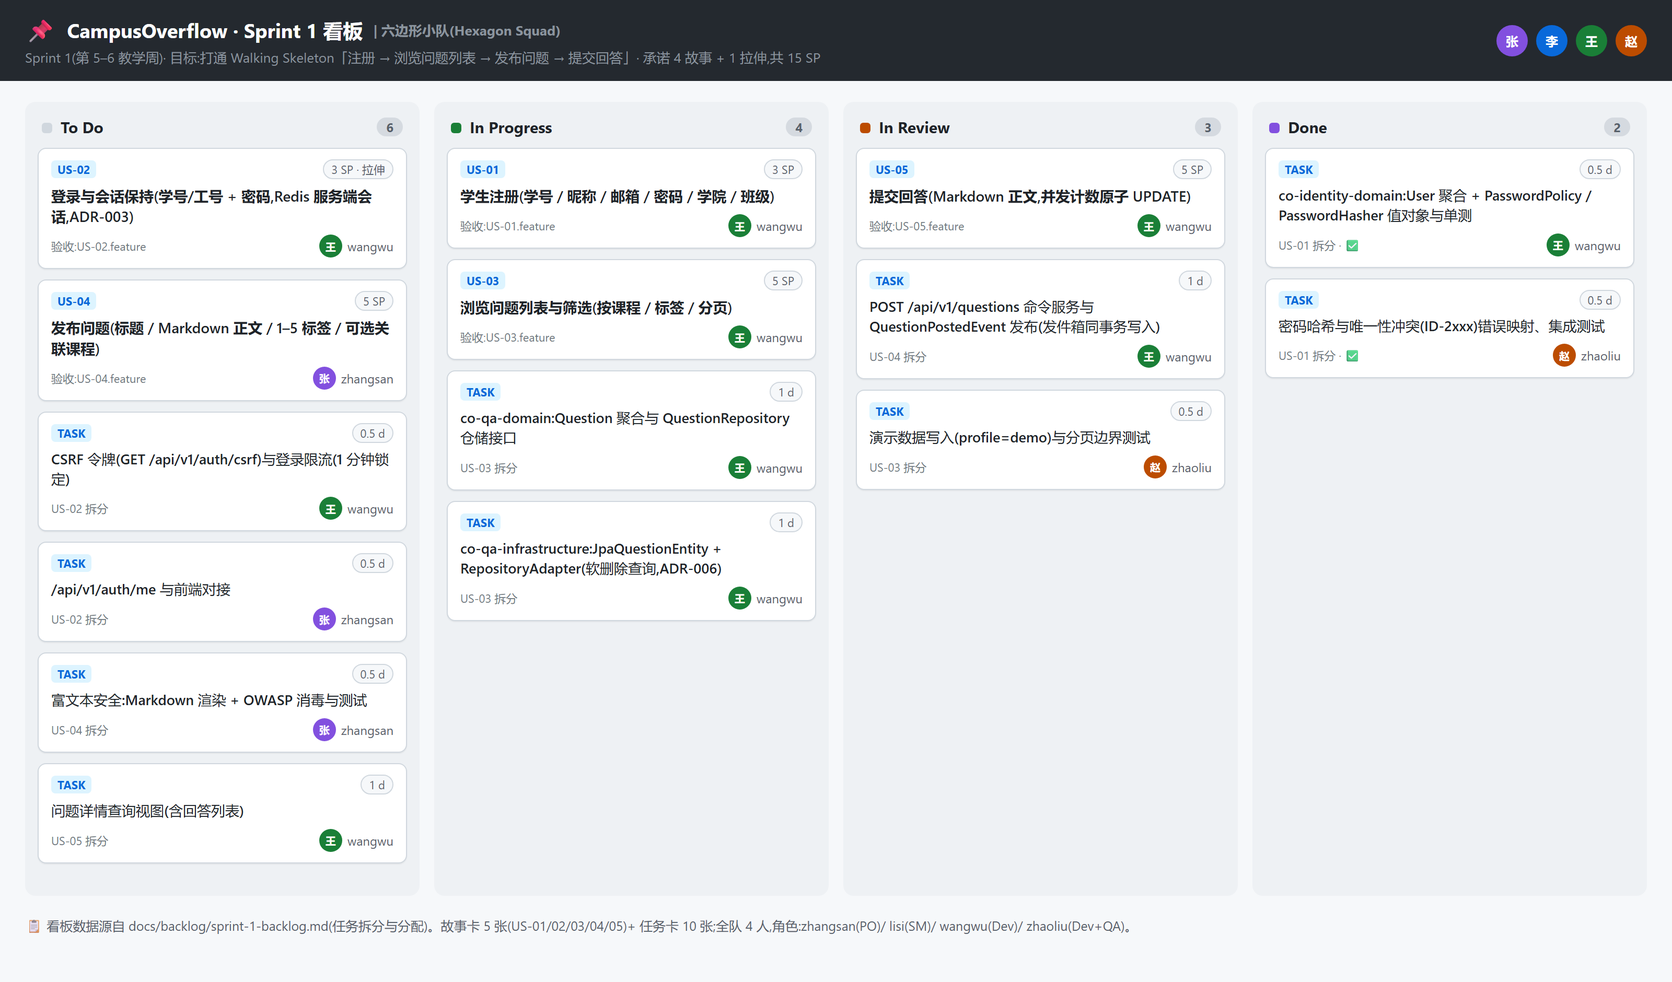
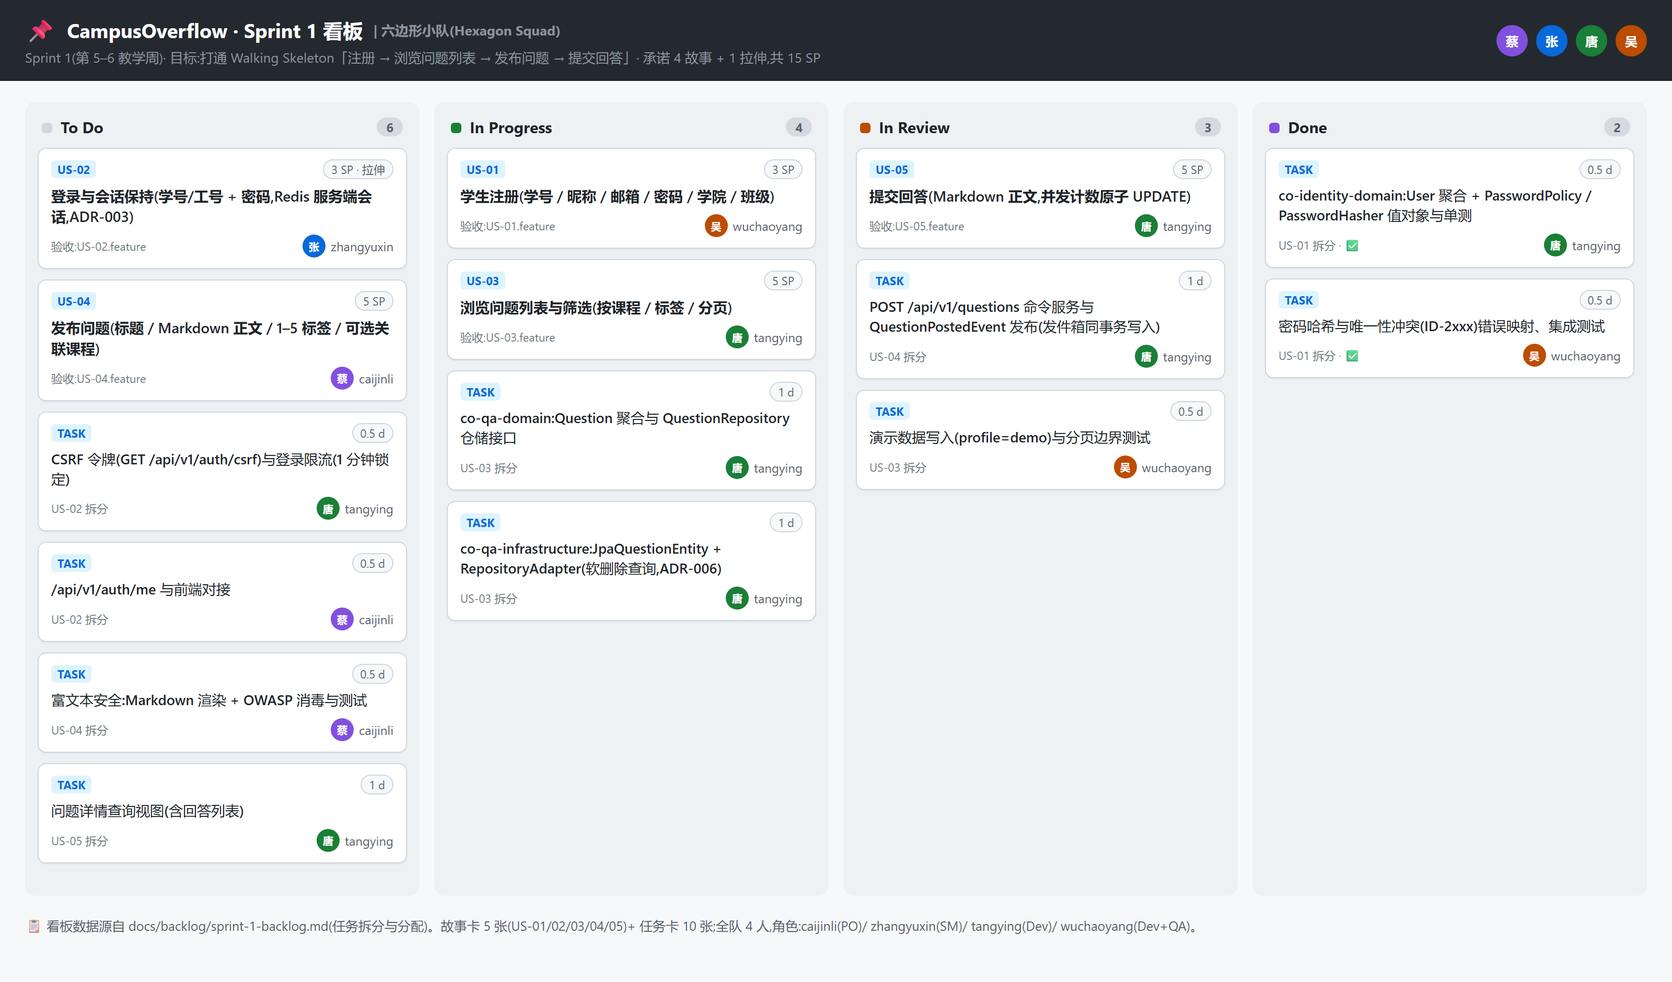
docs(team): 统一真实成员姓名与 GitHub 账号,重渲看板与故事地图

diff --git a/campus-overflow-student/docs/submissions/src/kanban-board.html b/campus-overflow-student/docs/submissions/src/kanban-board.html
@@ -41,10 +41,10 @@
       <div class="sub" style="margin-top:3px">Sprint 1(第 5–6 教学周)· 目标:打通 Walking Skeleton「注册 → 浏览问题列表 → 发布问题 → 提交回答」· 承诺 4 故事 + 1 拉伸,共 15 SP</div>
     </div>
     <div class="right">
-      <span class="avatar" style="background:#8250df">张</span>
-      <span class="avatar" style="background:#0969da">李</span>
-      <span class="avatar" style="background:#1a7f37">王</span>
-      <span class="avatar" style="background:#bc4c00">赵</span>
+      <span class="avatar" style="background:#8250df">蔡</span>
+      <span class="avatar" style="background:#0969da">张</span>
+      <span class="avatar" style="background:#1a7f37">唐</span>
+      <span class="avatar" style="background:#bc4c00">吴</span>
     </div>
   </div>
 
@@ -55,32 +55,32 @@
       <div class="card">
         <div class="top"><span class="id">US-02</span><span class="sp">3 SP · 拉伸</span></div>
         <div class="title">登录与会话保持(学号/工号 + 密码,Redis 服务端会话,ADR-003)</div>
-        <div class="bottom"><span class="est">验收:US-02.feature</span><span class="assignee"><span class="avatar sm" style="background:#1a7f37">王</span>wangwu</span></div>
+        <div class="bottom"><span class="est">验收:US-02.feature</span><span class="assignee"><span class="avatar sm" style="background:#0969da">张</span>zhangyuxin</span></div>
       </div>
       <div class="card">
         <div class="top"><span class="id">US-04</span><span class="sp">5 SP</span></div>
         <div class="title">发布问题(标题 / Markdown 正文 / 1–5 标签 / 可选关联课程)</div>
-        <div class="bottom"><span class="est">验收:US-04.feature</span><span class="assignee"><span class="avatar sm" style="background:#8250df">张</span>zhangsan</span></div>
+        <div class="bottom"><span class="est">验收:US-04.feature</span><span class="assignee"><span class="avatar sm" style="background:#8250df">蔡</span>caijinli</span></div>
       </div>
       <div class="card task">
         <div class="top"><span class="id">TASK</span><span class="sp">0.5 d</span></div>
         <div class="title">CSRF 令牌(GET /api/v1/auth/csrf)与登录限流(1 分钟锁定)</div>
-        <div class="bottom"><span class="est">US-02 拆分</span><span class="assignee"><span class="avatar sm" style="background:#1a7f37">王</span>wangwu</span></div>
+        <div class="bottom"><span class="est">US-02 拆分</span><span class="assignee"><span class="avatar sm" style="background:#1a7f37">唐</span>tangying</span></div>
       </div>
       <div class="card task">
         <div class="top"><span class="id">TASK</span><span class="sp">0.5 d</span></div>
         <div class="title">/api/v1/auth/me 与前端对接</div>
-        <div class="bottom"><span class="est">US-02 拆分</span><span class="assignee"><span class="avatar sm" style="background:#8250df">张</span>zhangsan</span></div>
+        <div class="bottom"><span class="est">US-02 拆分</span><span class="assignee"><span class="avatar sm" style="background:#8250df">蔡</span>caijinli</span></div>
       </div>
       <div class="card task">
         <div class="top"><span class="id">TASK</span><span class="sp">0.5 d</span></div>
         <div class="title">富文本安全:Markdown 渲染 + OWASP 消毒与测试</div>
-        <div class="bottom"><span class="est">US-04 拆分</span><span class="assignee"><span class="avatar sm" style="background:#8250df">张</span>zhangsan</span></div>
+        <div class="bottom"><span class="est">US-04 拆分</span><span class="assignee"><span class="avatar sm" style="background:#8250df">蔡</span>caijinli</span></div>
       </div>
       <div class="card task">
         <div class="top"><span class="id">TASK</span><span class="sp">1 d</span></div>
         <div class="title">问题详情查询视图(含回答列表)</div>
-        <div class="bottom"><span class="est">US-05 拆分</span><span class="assignee"><span class="avatar sm" style="background:#1a7f37">王</span>wangwu</span></div>
+        <div class="bottom"><span class="est">US-05 拆分</span><span class="assignee"><span class="avatar sm" style="background:#1a7f37">唐</span>tangying</span></div>
       </div>
     </div>
 
@@ -90,22 +90,22 @@
       <div class="card">
         <div class="top"><span class="id">US-01</span><span class="sp">3 SP</span></div>
         <div class="title">学生注册(学号 / 昵称 / 邮箱 / 密码 / 学院 / 班级)</div>
-        <div class="bottom"><span class="est">验收:US-01.feature</span><span class="assignee"><span class="avatar sm" style="background:#1a7f37">王</span>wangwu</span></div>
+        <div class="bottom"><span class="est">验收:US-01.feature</span><span class="assignee"><span class="avatar sm" style="background:#bc4c00">吴</span>wuchaoyang</span></div>
       </div>
       <div class="card">
         <div class="top"><span class="id">US-03</span><span class="sp">5 SP</span></div>
         <div class="title">浏览问题列表与筛选(按课程 / 标签 / 分页)</div>
-        <div class="bottom"><span class="est">验收:US-03.feature</span><span class="assignee"><span class="avatar sm" style="background:#1a7f37">王</span>wangwu</span></div>
+        <div class="bottom"><span class="est">验收:US-03.feature</span><span class="assignee"><span class="avatar sm" style="background:#1a7f37">唐</span>tangying</span></div>
       </div>
       <div class="card task">
         <div class="top"><span class="id">TASK</span><span class="sp">1 d</span></div>
         <div class="title">co-qa-domain:Question 聚合与 QuestionRepository 仓储接口</div>
-        <div class="bottom"><span class="est">US-03 拆分</span><span class="assignee"><span class="avatar sm" style="background:#1a7f37">王</span>wangwu</span></div>
+        <div class="bottom"><span class="est">US-03 拆分</span><span class="assignee"><span class="avatar sm" style="background:#1a7f37">唐</span>tangying</span></div>
       </div>
       <div class="card task">
         <div class="top"><span class="id">TASK</span><span class="sp">1 d</span></div>
         <div class="title">co-qa-infrastructure:JpaQuestionEntity + RepositoryAdapter(软删除查询,ADR-006)</div>
-        <div class="bottom"><span class="est">US-03 拆分</span><span class="assignee"><span class="avatar sm" style="background:#1a7f37">王</span>wangwu</span></div>
+        <div class="bottom"><span class="est">US-03 拆分</span><span class="assignee"><span class="avatar sm" style="background:#1a7f37">唐</span>tangying</span></div>
       </div>
     </div>
 
@@ -115,17 +115,17 @@
       <div class="card">
         <div class="top"><span class="id">US-05</span><span class="sp">5 SP</span></div>
         <div class="title">提交回答(Markdown 正文,并发计数原子 UPDATE)</div>
-        <div class="bottom"><span class="est">验收:US-05.feature</span><span class="assignee"><span class="avatar sm" style="background:#1a7f37">王</span>wangwu</span></div>
+        <div class="bottom"><span class="est">验收:US-05.feature</span><span class="assignee"><span class="avatar sm" style="background:#1a7f37">唐</span>tangying</span></div>
       </div>
       <div class="card task">
         <div class="top"><span class="id">TASK</span><span class="sp">1 d</span></div>
         <div class="title">POST /api/v1/questions 命令服务与 QuestionPostedEvent 发布(发件箱同事务写入)</div>
-        <div class="bottom"><span class="est">US-04 拆分</span><span class="assignee"><span class="avatar sm" style="background:#1a7f37">王</span>wangwu</span></div>
+        <div class="bottom"><span class="est">US-04 拆分</span><span class="assignee"><span class="avatar sm" style="background:#1a7f37">唐</span>tangying</span></div>
       </div>
       <div class="card task">
         <div class="top"><span class="id">TASK</span><span class="sp">0.5 d</span></div>
         <div class="title">演示数据写入(profile=demo)与分页边界测试</div>
-        <div class="bottom"><span class="est">US-03 拆分</span><span class="assignee"><span class="avatar sm" style="background:#bc4c00">赵</span>zhaoliu</span></div>
+        <div class="bottom"><span class="est">US-03 拆分</span><span class="assignee"><span class="avatar sm" style="background:#bc4c00">吴</span>wuchaoyang</span></div>
       </div>
     </div>
 
@@ -135,16 +135,16 @@
       <div class="card task">
         <div class="top"><span class="id">TASK</span><span class="sp">0.5 d</span></div>
         <div class="title">co-identity-domain:User 聚合 + PasswordPolicy / PasswordHasher 值对象与单测</div>
-        <div class="bottom"><span class="est">US-01 拆分 · ✅</span><span class="assignee"><span class="avatar sm" style="background:#1a7f37">王</span>wangwu</span></div>
+        <div class="bottom"><span class="est">US-01 拆分 · ✅</span><span class="assignee"><span class="avatar sm" style="background:#1a7f37">唐</span>tangying</span></div>
       </div>
       <div class="card task">
         <div class="top"><span class="id">TASK</span><span class="sp">0.5 d</span></div>
         <div class="title">密码哈希与唯一性冲突(ID-2xxx)错误映射、集成测试</div>
-        <div class="bottom"><span class="est">US-01 拆分 · ✅</span><span class="assignee"><span class="avatar sm" style="background:#bc4c00">赵</span>zhaoliu</span></div>
+        <div class="bottom"><span class="est">US-01 拆分 · ✅</span><span class="assignee"><span class="avatar sm" style="background:#bc4c00">吴</span>wuchaoyang</span></div>
       </div>
     </div>
   </div>
 
-  <div class="footer">📋 看板数据源自 docs/backlog/sprint-1-backlog.md(任务拆分与分配)。故事卡 5 张(US-01/02/03/04/05)+ 任务卡 10 张;全队 4 人,角色:zhangsan(PO)/ lisi(SM)/ wangwu(Dev)/ zhaoliu(Dev+QA)。</div>
+  <div class="footer">📋 看板数据源自 docs/backlog/sprint-1-backlog.md(任务拆分与分配)。故事卡 5 张(US-01/02/03/04/05)+ 任务卡 10 张;全队 4 人,角色:caijinli(PO)/ zhangyuxin(SM)/ tangying(Dev)/ wuchaoyang(Dev+QA)。</div>
 </body>
 </html>

diff --git a/campus-overflow-student/docs/submissions/src/story-map.html b/campus-overflow-student/docs/submissions/src/story-map.html
@@ -62,7 +62,7 @@
 <body>
   <div class="header">
     <h1>📋 CampusOverflow 用户故事地图(Story Map)</h1>
-    <span class="meta">v1.0 · 维护人:张三(PO)</span>
+    <span class="meta">v1.0 · 维护人:蔡锦莉(PO)</span>
   </div>
   <div class="subtitle">横轴 = 用户活动时间线(注册 → 浏览 → 提问 → 回答 → 互动 → 成长);纵轴自顶向下按"不可或缺 → 锦上添花"排列,越靠上越接近 Walking Skeleton。</div>
 

diff --git a/campus-overflow-student/docs/submissions/screenshots-todo.md b/campus-overflow-student/docs/submissions/screenshots-todo.md
@@ -1,33 +1,81 @@
 # 真人截图待办清单(Screenshots TODO)
 
-> 本清单列出**必须由真人操作截图/录屏**的提交物——它们涉及 GitHub 界面与现场过程,无法由仓库数据渲染,建议全队分工、每人 10 分钟完成。
+> 更新日期:2026-11-19。本清单列出**必须由真人操作截图/录屏**的提交物——它们涉及 GitHub 界面与现场过程,无法由仓库数据渲染,建议全队分工、每人 10 分钟完成。
+> 交付口径:个人仓 https://github.com/Vespersea/CampusOverflow,默认分支 **main**。
 > 已由渲染 PNG 代替的项(看板/故事地图/上下文映射图/事件风暴白板)如果老师要求真实工具截图,也列在对应条目中。
+
+## 0. 成员与账号对照
+
+| 姓名 | 角色 | GitHub 账号 |
+| --- | --- | --- |
+| 蔡锦莉 | PO(Product Owner) | Vespersea |
+| 张玉馨 | SM(Scrum Master) | zyxd336 |
+| 唐颖 | Developer(co-qa 问答核心) | ty666-lang |
+| 吴超阳 | Developer + QA(co-reputation / co-discovery) | youngbv |
+
+> 账号以仓库提交记录为准,请四人各核对一遍。
 
 ## Lab 1 需要补拍(2 项)
 
 ### 1. 仓库分支保护截图(1 张)
+
 1. 打开 https://github.com/Vespersea/CampusOverflow/settings/branches
-2. 截图应同时包含:branch name pattern `main`、勾选的 "Require a pull request before merging"(≥1 approval)与 "Require status checks to pass before merging"
+2. 截图应同时包含:branch name pattern `main`、勾选的 "Require a pull request before merging"(approvals ≥1)与 "Require status checks to pass before merging"
 3. 保存为 `lab1-branch-protection.png`,放入本目录
 
 ### 2. 每位成员首次 PR 合并记录(4 张)
-1. 打开仓库 Pull requests 页 → 筛选 Closed/Merged → 找到自己的 `feature/<姓名拼音>-hello` PR(对应 `docs/team/hello-*.md`)
-2. 点进 PR,截图包含:PR 标题、reviewer 的 LGTM 评论、紫色的 Merged 标记
-3. 4 人各截 1 张:`lab1-pr-merge-<姓名拼音>.png`
-4. 参考提交:main 分支历史上 `docs/team/hello-{zhangsan,lisi,wangwu,zhaoliu}.md` 的首次合入提交
 
-## Lab 1/2 可选:真实看板截图
+**注意:首次 PR 不必是 hello 文档。**仓库里四人的首次合并 PR 都是功能 PR,按下面这张表去截:
 
-- 目前 `lab1-kanban-board.png` 是按 `docs/backlog/sprint-1-backlog.md` 渲染的等价图;
-- 若老师要求工具内截图:GitHub → 仓库 Projects 页 → 新建 "CampusOverflow Sprint Board" → 按 sprint-1-backlog.md 建 To Do / In Progress / In Review / Done 四列与卡片 → 截图。10 分钟可完成。
+| 成员 | 账号 | 首次合并 PR | 标题 | 合并日期 | 状态 |
+| --- | --- | --- | --- | --- | --- |
+| 唐颖 | ty666-lang | #1 | 第一次提交(更改README) | 2026-10-22 | 已合并,直接截 |
+| 吴超阳 | youngbv | #3 | 2.3.3 声誉与激励子域实现 | 2026-10-22 | 已合并,直接截 |
+| 张玉馨 | zyxd336 | #4 | 2.3.4内容发送子域 | 2026-10-22 | 已合并,直接截 |
+| 蔡锦莉 | Vespersea | —— | —— | —— | **无 PR,需先补一条** |
 
-## Lab 6 需要补录(1 项)
+**操作步骤**
 
-- Sprint Review 演示视频:按 `demo-script.md` §2 走一遍(5 分钟/队),或上课现场录制老师评审环节。现场录屏优先——Lab 6 交付物 2 原文为"演示视频或现场录屏"。
+1. 打开 `https://github.com/Vespersea/CampusOverflow/pulls?q=is%3Apr+is%3Aclosed`(默认页只显示 Open,本仓 Open=0,所以要点 `Closed` 标签)
+2. 点进上表对应的 PR 详情页(**不要截列表页**)
+3. 截图必须同时包含:
+   - PR 编号与标题、`by <账号名>`
+   - 紫色 **Merged** 徽标、合并人与合并时间
+   - 分支流向 `main ← feature2`(或其他 compare 分支)
+   - `Files changed` 数量与 `+N −M`
+   - **浏览器地址栏**(证明是哪个仓库的哪条 PR)
+4. 4 人各截 1 张,命名 `lab1-pr-merge-<账号名>.png`
+
+**蔡锦莉(Vespersea)补做步骤**
+
+他是仓库所有者,历史上一直直接合并/直接推送,没开过 PR。补一条:
+
+```
+git checkout main
+git pull origin main
+git checkout -b feature/vespersea-lab1-merge
+# 改一处文档,例如 docs/team/hello-Vespersea.md 补一行
+git add .
+git commit -m "docs(team): 更新个人介绍(Lab1 首次 PR)"
+git push origin feature/vespersea-lab1-merge
+```
+
+推完到 GitHub 开 PR,目标分支选 **main**,由另一名成员点 Approve 后合并,再按上面第 3 步截图。
+**必须本人提交、本人开 PR**——别人代推会让作者变成对方账号,截图与账号对不上。
+
+## Lab 1 / Lab 2 可选:真实看板与故事地图截图
+
+- `lab1-kanban-board.png` 与 `lab2-story-map.png` 已按**真实姓名与账号**重新渲染,内容与 `docs/backlog/sprint-1-backlog.md` 一致;
+- 若老师要求工具内截图:GitHub → 仓库 Projects 页 → 新建 "CampusOverflow Sprint Board" → 按 `sprint-1-backlog.md` 建 To Do / In Progress / In Review / Done 四列与卡片 → 截图,约 10 分钟;
+- 故事地图若要求"工作坊现场白板照",用 ProcessOn 或飞书画板重画一张(6 阶段 × 5 层 + Walking Skeleton 横切线)再截全屏。
 
 ## Lab 5 需要补录(1 项)
 
-- 30 秒端到端录屏:按 `demo-script.md` §1 录制,提交 `lab5-demo-30s.mp4`。
+- 30 秒端到端录屏:按 `demo-script.md` §1 录制(提问 → 列表 → 详情),提交 `lab5-demo-30s.mp4`。
+
+## Lab 6 需要补录(1 项)
+
+- Sprint Review 演示视频:按 `demo-script.md` §2 走一遍(3–5 分钟/队),或上课现场录制老师评审环节。现场录屏优先——Lab 6 交付物 2 原文为"演示视频或现场录屏"。
 
 ## Lab 7 / Lab 8 后续需要(供排期)
 
@@ -42,9 +90,10 @@
 
 | 成员 | 任务 |
 | --- | --- |
-| zhangsan(PO) | Lab 1 分支保护截图 + Lab 5 录屏 |
-| lisi(SM) | 检查每位成员 PR 截图是否合格,汇总到本目录 |
-| wangwu | 自己 + 提醒 zhaoliu 的 PR 合并截图 |
-| zhaoliu(QA) | SonarQube 部署与截图(第 13 周 Lab 7 前完成) |
+| 蔡锦莉(PO, Vespersea) | Lab 1 分支保护截图 + 补自己那条 PR(改文档 → 开 PR → 请人 Approve) |
+| 张玉馨(SM, zyxd336) | 截 `pull/4`;检查 4 张 PR 截图是否合格,汇总到本目录 |
+| 唐颖(Dev, ty666-lang) | 截 `pull/1`;负责 Approve 蔡锦莉那条 PR |
+| 吴超阳(Dev+QA, youngbv) | 截 `pull/3`;Lab 7 的 SonarQube 部署与截图(第 13 教学周前完成) |
 
 > 完成后请把截图直接放入本目录(`docs/submissions/`),并勾选 README.md 状态表中的对应项(🖼/📸 → ✅)。
+</content>

diff --git a/campus-overflow-student/docs/team/charter-v1.0.md b/campus-overflow-student/docs/team/charter-v1.0.md
@@ -14,12 +14,14 @@
 
 ## 2. 成员与角色
 
-| 昵称 | 姓名 | 角色 | 主要职责 |
-|  | --- | --- | --- |
-| caijinli | 蔡锦莉 | PO（Product Owner） | 需求梳理、Product Backlog 优先级、Gherkin 验收标准、Sprint Review 验收 |
-| zhangyuxin | 张玉馨 | SM（Scrum Master） | 站会/计划会/回顾会组织、CI 维护、DoD 检查、消除障碍 |
-| tangying | 唐颖 | Developer | co-qa 问答核心上下文、co-bootstrap 装配与安全、ArchUnit 约束 |
-| wuchaoyang | 吴超阳 | Developer + QA | co-reputation 声誉上下文、co-discovery 发现上下文、Testcontainers 集成测试、覆盖率门禁 |
+| 昵称 | 姓名 | 角色 | GitHub 账号 | 主要职责 |
+| --- | --- | --- | --- | --- |
+| caijinli | 蔡锦莉 | PO（Product Owner） | Vespersea | 需求梳理、Product Backlog 优先级、Gherkin 验收标准、Sprint Review 验收 |
+| zhangyuxin | 张玉馨 | SM（Scrum Master） | zyxd336 | 站会/计划会/回顾会组织、CI 维护、DoD 检查、消除障碍 |
+| tangying | 唐颖 | Developer | ty666-lang | co-qa 问答核心上下文、co-bootstrap 装配与安全、ArchUnit 约束 |
+| wuchaoyang | 吴超阳 | Developer + QA | youngbv | co-reputation 声誉上下文、co-discovery 发现上下文、Testcontainers 集成测试、覆盖率门禁 |
+
+> GitHub 账号栏以仓库提交记录（`git log` 的 author）为准。提交记录里出现的账号只有 `Vespersea` / `zyxd336` / `ty666-lang` / `youngbv` 四个，姓名与账号的对应请四人各核对一遍，有误当日在群内修正。
 
 ## 3. 团队价值观
 

diff --git a/campus-overflow-student/docs/retro/sprint-3.md b/campus-overflow-student/docs/retro/sprint-3.md
@@ -1,6 +1,6 @@
 # Sprint 3 回顾纪要（Sprint Retrospective）
 
-> 模板：Start / Stop / Continue ｜ 主持：李四（SM） ｜ 记录：赵六（QA） ｜ 日期：第 13 教学周
+> 模板：Start / Stop / Continue ｜ 主持：张玉馨（SM） ｜ 记录：吴超阳（QA） ｜ 日期：第 13 教学周
 
 ## 1. Sprint 目标回顾
 
@@ -35,9 +35,9 @@
 
 ## 4. 投票选出的改进措施（纳入 Sprint 4）
 
-1. **【覆盖率门禁】将 `domain.coverage.minimum` 提升到 0.70 并保持 `mvn verify` 全绿**——负责人：赵六。杜绝"写了实现不写测试"。
-2. **【评审习惯】PR 必须附上"改了什么 / 为什么 / 怎么验证"三段式描述**——负责人：李四。降低评审上下文成本。
-3. **【演示准备】每周五固定 30 分钟环境演练（compose 起停、演示数据回放）**——负责人：张三。避免 Sprint Review 现场翻车。
+1. **【覆盖率门禁】将 `domain.coverage.minimum` 提升到 0.70 并保持 `mvn verify` 全绿**——负责人：吴超阳。杜绝"写了实现不写测试"。
+2. **【评审习惯】PR 必须附上"改了什么 / 为什么 / 怎么验证"三段式描述**——负责人：张玉馨。降低评审上下文成本。
+3. **【演示准备】每周五固定 30 分钟环境演练（compose 起停、演示数据回放）**——负责人：蔡锦莉。避免 Sprint Review 现场翻车。
 
 ## 5. 下个 Sprint（Sprint 4）行动项
 

diff --git a/campus-overflow-student/docs/submissions/README.md b/campus-overflow-student/docs/submissions/README.md
@@ -29,7 +29,7 @@
 | 1 | 用户故事地图 PNG / PDF | 🖼 | `lab2-story-map.png`(6 阶段 × 5 层,标注 Walking Skeleton) |
 | 2 | Product Backlog Markdown 表格 | ✅ | `docs/backlog/product-backlog.md`(22 条:ID/描述/优先级/SP/INVEST 自评) |
 | 3 | ≥8 条 Gherkin 验收标准文件 | ✅ | `docs/backlog/stories/US-01~US-10.feature`(10 个,每个 ≥3 场景) |
-| 4 | Sprint 1 Backlog 截图(任务已分配到人) | 🖼 | `lab1-kanban-board.png`(卡上标注负责人 zhangsan/wangwu/zhaoliu) |
+| 4 | Sprint 1 Backlog 截图(任务已分配到人) | 🖼 | `lab1-kanban-board.png`(卡上标注负责人 caijinli/tangying/wuchaoyang) |
 
 ## Lab 3 领域驱动设计事件风暴
 

diff --git a/campus-overflow-student/docs/backlog/sprint-1-backlog.md b/campus-overflow-student/docs/backlog/sprint-1-backlog.md
@@ -73,6 +73,6 @@
 
 | 风险 | 应对 |
 | --- | --- |
-| 六边形分层样板代码量大（每聚合约 40 行映射） | 由 wangwu 先做出 Question 端到端模板，其余照抄 |
+| 六边形分层样板代码量大（每聚合约 40 行映射） | 由 tangying 先做出 Question 端到端模板，其余照抄 |
 | 团队对 Markdown 渲染安全不熟 | 使用 commonmark + OWASP sanitizer 并写消毒测试 |
-| CSRF/会话调试耗时 | zhaoliu 提前写 Postman 集合（docs/postman/CampusOverflow.postman_collection.json）固化调试脚本 |
+| CSRF/会话调试耗时 | wuchaoyang 提前写 Postman 集合（docs/postman/CampusOverflow.postman_collection.json）固化调试脚本 |

diff --git a/campus-overflow-student/docs/storming/event-storming.md b/campus-overflow-student/docs/storming/event-storming.md
@@ -1,7 +1,7 @@
 # 事件风暴工作坊记录（Event Storming）
 
 > 场次：第 5 教学周周三晚 20:00–22:30（2.5 小时） ｜ 地点：线上白板（Miro） ｜ 参与人：六边形小队全员 4 人
-> 记录人：张三（PO） ｜ 复核人：赵六（QA）
+> 记录人：蔡锦莉（PO） ｜ 复核人：吴超阳（QA）
 > 颜色约定（按 DDD 社区惯例）：橙色 = 领域事件；蓝色 = 命令；黄色 = 角色/外部系统；绿色 = 读模型；紫色 = 策略/规则；红色 = Hot Spot。
 
 ## 1. 领域事件清单（橙色，按时间线组织）
